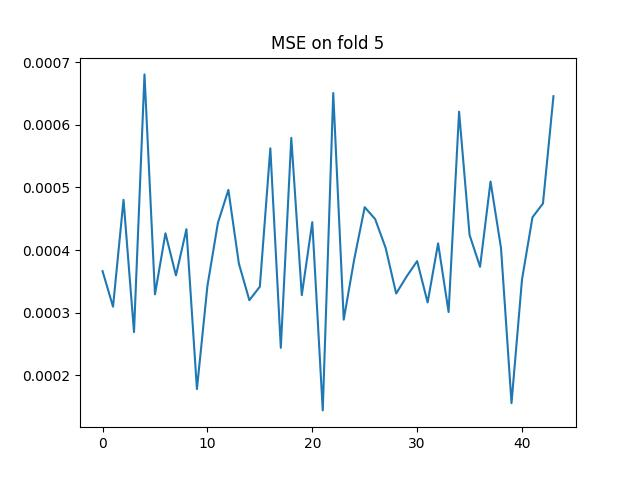
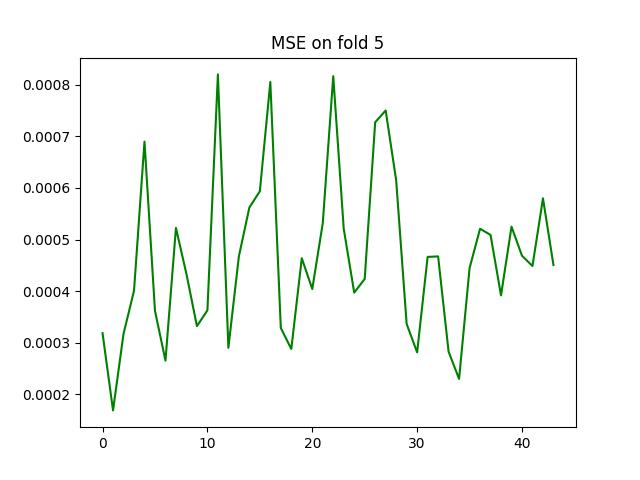
time mes

diff --git a/main.py b/main.py
@@ -8,10 +8,12 @@ from sklearn.model_selection import KFold
 from sklearn.metrics import mean_squared_error, r2_score
 from tqdm import tqdm
 import matplotlib.pyplot as plt
+import time
 
 
 
-device = 'cuda' if torch.cuda.is_available() else 'cpu'
+device = 'cuda' if torch.cuda.is_available() else 'cpu' # cuda time: 
+# device = 'cpu' # 
 print(f"-- >> Using device {device} << --")
 
 class SeqNet(nn.Module):
@@ -65,6 +67,10 @@ def reset_weights(m):
     layer.reset_parameters()
 
 def train(model, dataset, lr, epochs_number: int, loss_function, optimizer, k_folds = 5, *args, **kwargs):
+    start = time.time()
+    print(f"Starting time: {start}")
+    print(time.strftime('%Y-%m-%d %H:%M:%S', time.localtime(start)))
+
     # model = model.to(device)
     kfold = KFold(n_splits=k_folds, shuffle=True)
     for fold, (train_ids, test_ids) in enumerate(kfold.split(dataset)):
@@ -116,9 +122,11 @@ def train(model, dataset, lr, epochs_number: int, loss_function, optimizer, k_fo
                 
                 current_loss += loss.item()
 
-                # if i % 100:
-                    # print('Loss after mini-batch %5d: %.6f' % (i + 1, current_loss))
-                    # current_loss = 0.0
+    endtime = time.time()
+    print(f"Endtime time: {endtime}")
+    print(time.strftime('%Y-%m-%d %H:%M:%S', time.localtime(endtime)))
+    print(f"Full training time [{device}]: {endtime - start}")
+
             
     path = f'./model-folds-{fold + 1}.pth'
     print(f'Training process has finished. Saving trained model in {path}.')
@@ -131,6 +139,7 @@ def train(model, dataset, lr, epochs_number: int, loss_function, optimizer, k_fo
 
     r2_on_fold = []
     mse_on_fold = []
+    test_mse = []
 
     with torch.no_grad():
 
@@ -141,11 +150,13 @@ def train(model, dataset, lr, epochs_number: int, loss_function, optimizer, k_fo
         outputs = model(inputs)
 
         r2_on_fold.append(r2_score(targets, outputs))
-        mse_on_fold.append(mean_squared_error(targets, outputs))
+        # mse_on_fold.append(mean_squared_error(targets, outputs))
+        test_mse.append(nn.MSELoss()(outputs, targets).item())
     
-    plt.plot(mse_on_fold)
+    # plt.plot(mse_on_fold)
+    plt.plot(test_mse, color="g")
     plt.title(f"MSE on fold {fold+1}")
-    plt.savefig(f"mse_fold_{fold+1}.jpg")
+    plt.savefig(f"mse_fold_{fold+1}_model_seq_2.jpg")
 
     plt.plot(r2_on_fold)
     plt.title(f"R2 on fold {fold+1}")
@@ -167,11 +178,44 @@ if __name__ == "__main__":
        nn.Linear(4, 2)
     ]
 
+    model_seq_2 = [
+       nn.Linear(16, 8),
+       nn.Sigmoid(),
+       nn.Linear(8, 4),
+       nn.Sigmoid(),
+       nn.Linear(4, 2)
+    ]
+
+    model_seq_3 = [
+       nn.Linear(16, 32),
+       nn.ReLU(),
+       nn.Linear(32, 16),
+       nn.ReLU(),
+       nn.Linear(16, 4),
+       nn.ReLU(),
+       nn.Linear(4, 2)
+    ]
+
+    model_seq_4 = [
+       nn.Linear(16, 4),
+       nn.Sigmoid(),
+       nn.Linear(4, 2)
+    ]
+
     # model_seq = [
     #    nn.Linear(16, 4),
     #    nn.Sigmoid(),
     #    nn.Linear(4, 2)
     # ]
 
-    network = SeqNet(model_seq)
+    model_seq_test = [
+       nn.Linear(16, 8),
+       nn.ReLU(),
+       nn.Linear(8, 4),
+       nn.ReLU(),
+       nn.Linear(4, 2)
+    ]
+
+    # network = SeqNet(model_seq_2) # Best
+    network = SeqNet(model_seq_2)
     train(network, train_data, 1e-4, 500, nn.MSELoss(), None, k_folds = 5)
